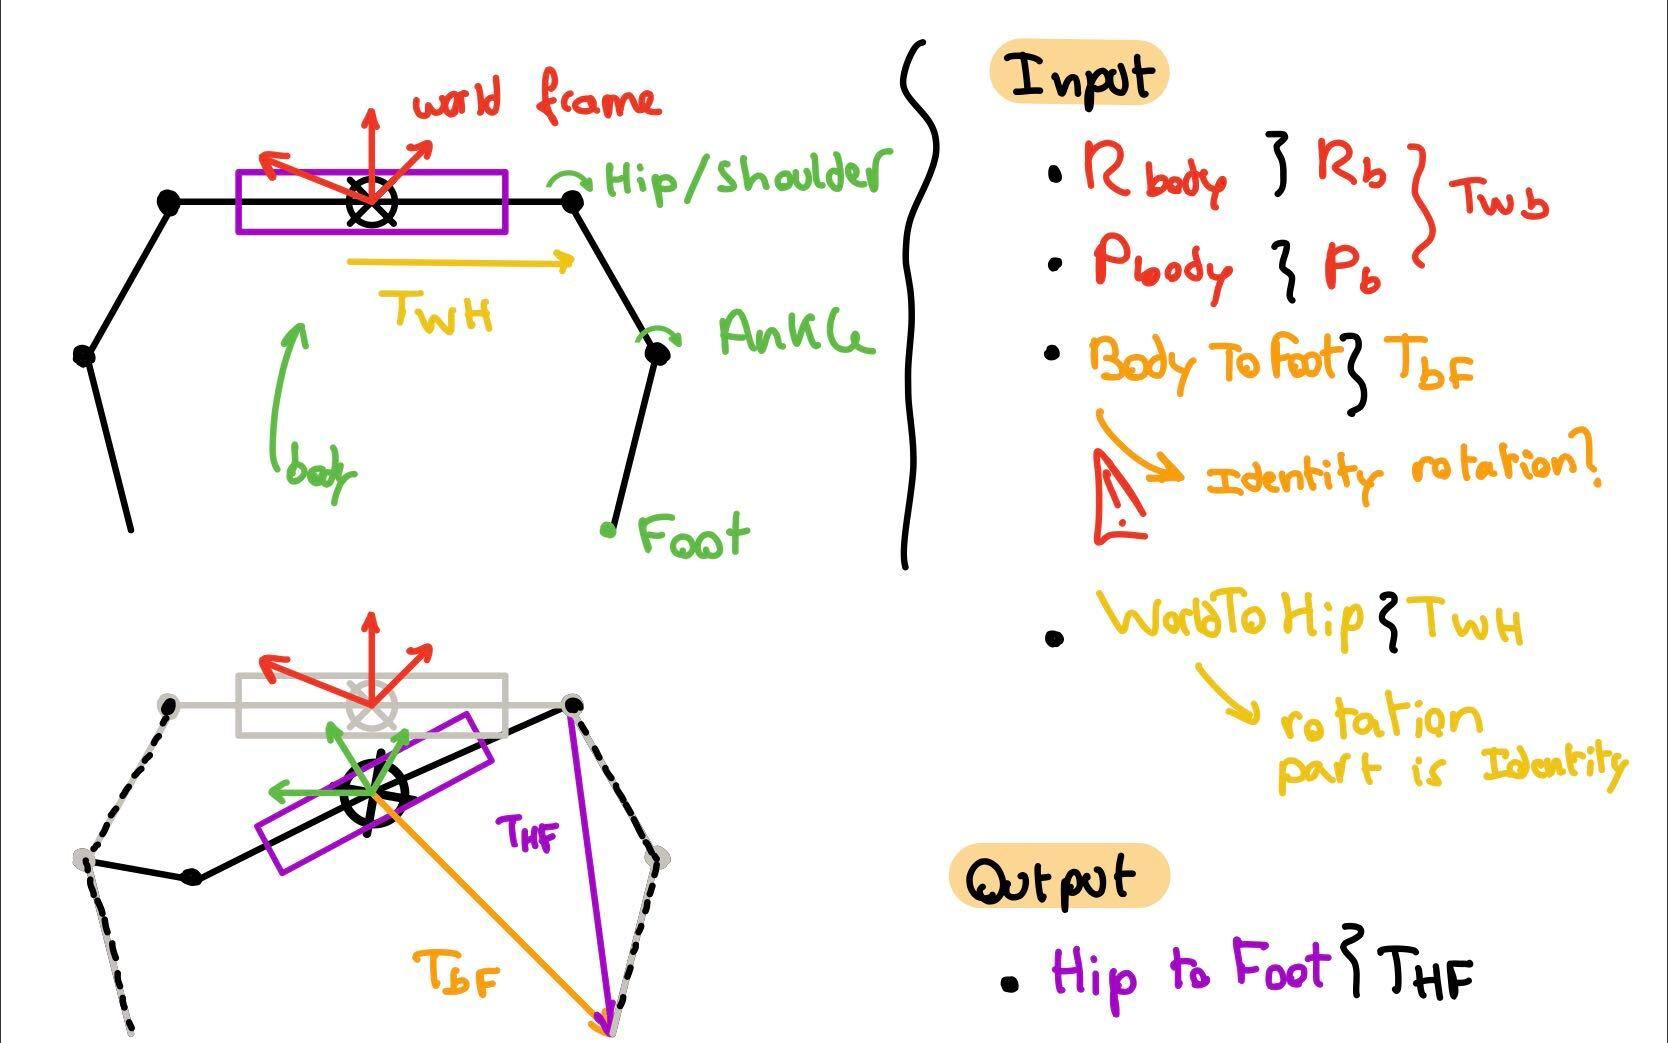
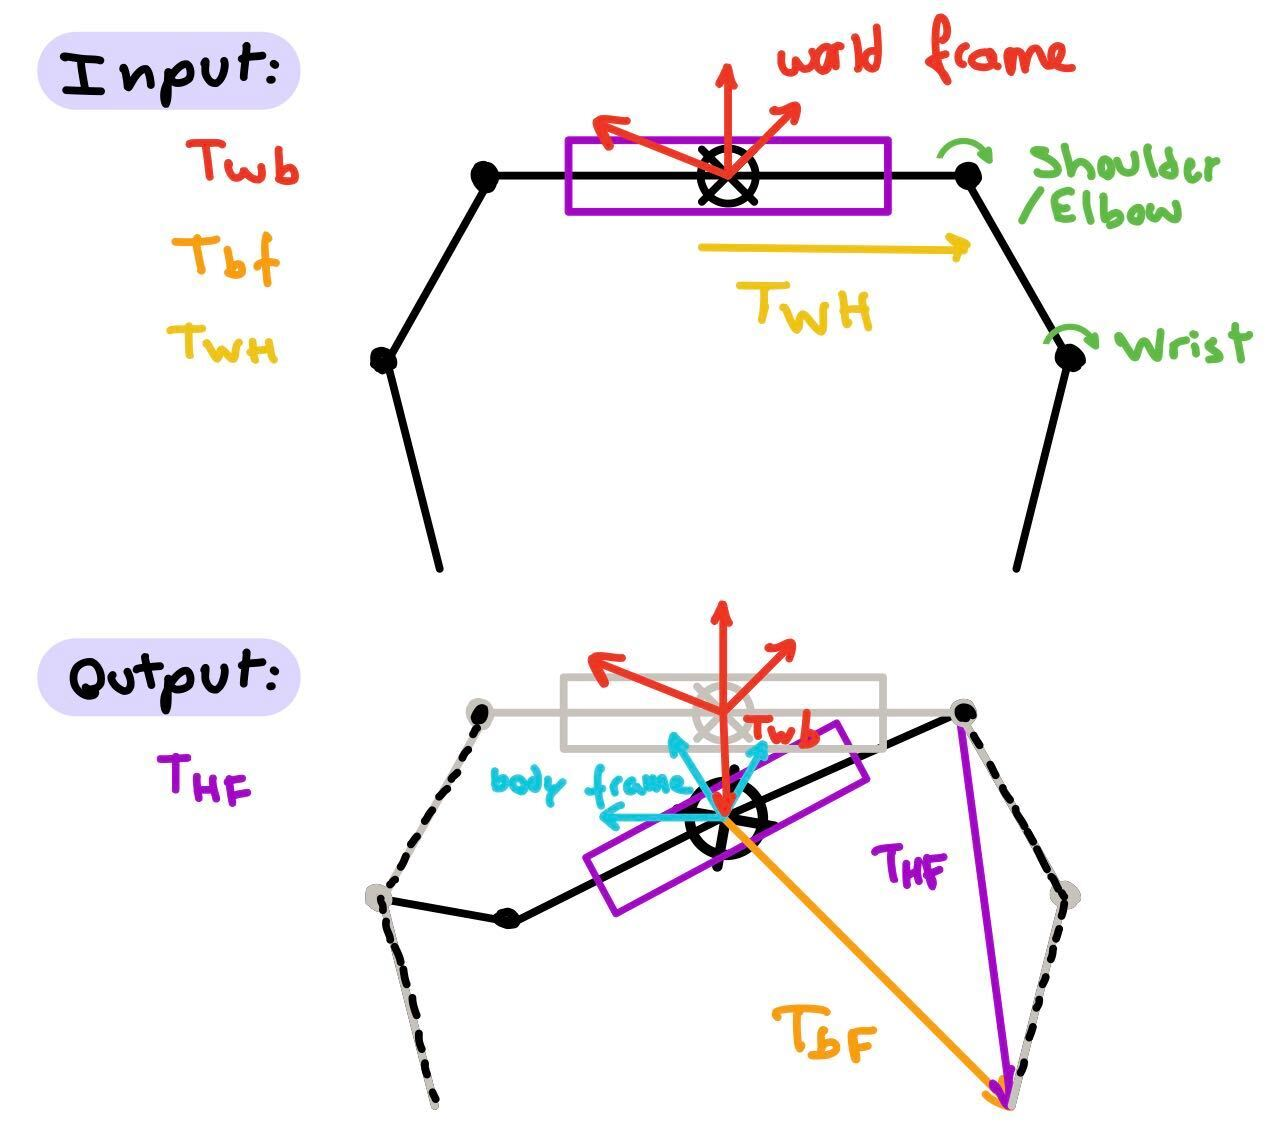
nicer io/thf pics

diff --git a/_projects/2020-06-05-spot-mini-mini.md b/_projects/2020-06-05-spot-mini-mini.md
@@ -35,8 +35,8 @@ The best part is that even though the agent was only **trained** to walk **forwa
 After deriving the [Inverse Kinematics](https://www.researchgate.net/publication/320307716_Inverse_Kinematic_Analysis_Of_A_Quadruped_Robot) for each leg, the next step was to describe the IK for the body itself. The approach used here considers a **world frame** $w$, which is the robot centroid's base position, and a **body frame** $b$, describing the robot's pose relative to the world frame. In addition, we have $T_{wh}$, which is a transform from the world frame to the robot's hip: this describes the base transform between the robot centroid and the hip. Finally, we have our inputs: $T_{wb}$, which describes the desired transform from **world** to **body** (RPY and Translation), and $T_{bf}$, the desired **foot** position relative to the transformed **body** - this is useful for gait generation. The output of our process is $T_{hf}$, the transform between each **hip** and its respective **foot** required to achieve this motion. The gallery below shows our inputs and outputs, as well as the actual process for getting $T_{hf}$. Note that this diagram is facing the robot, so the example shown is for **body roll**.
 
 <div class="gallery" data-columns="1">
-	<img src="/images/Projects/spot-mini-mini/io.jpg" style="width: 70%">
-	<img src="/images/Projects/spot-mini-mini/thf.jpg" style="width: 70%">
+	<img src="/images/Projects/spot-mini-mini/io.jpg" style="width: 45%">
+	<img src="/images/Projects/spot-mini-mini/thf.jpg" style="width: 64%">
 </div>
 
 Here's a gif of the body IK in action:
